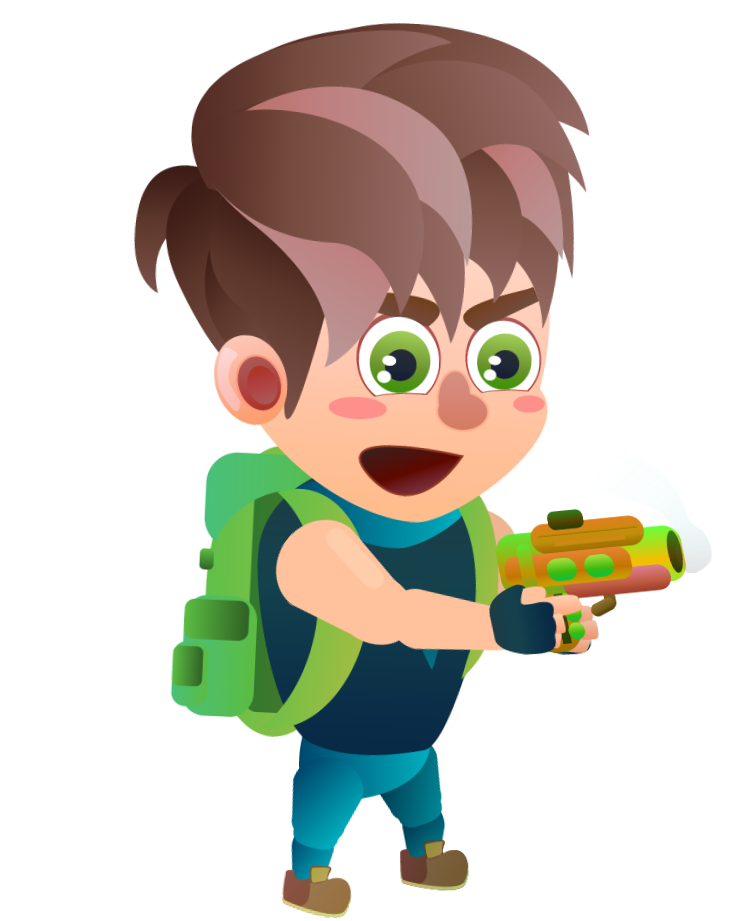
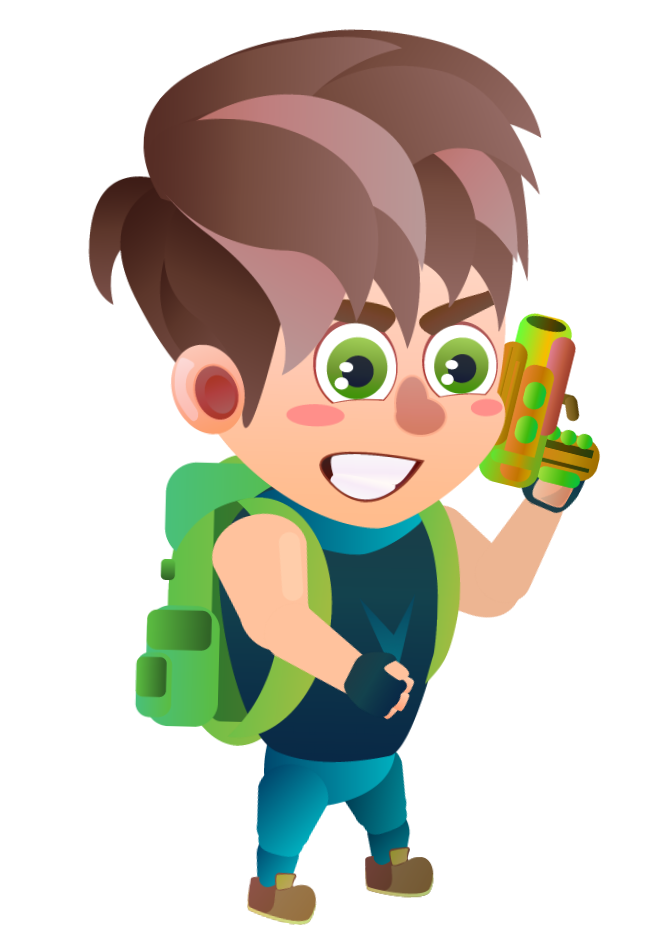
d

diff --git a/player.py b/player.py
@@ -11,7 +11,7 @@ class Player(pygame.sprite.Sprite):
         self.index = 0
         self.animation_speed = 0.15
 
-        self.image = self.animations['idle'][self.index]
+        self.image = self.animations['shoot'][self.index]
         self.rect = self.image.get_rect(topleft = pos)
 
         # Player Movement
@@ -32,7 +32,7 @@ class Player(pygame.sprite.Sprite):
 
     def imports(self):
         character_path = 'C:/Users/josey/Privé/Programmeren/Portfolio/Platformer/Animations/graphics/character/'
-        self.animations = {'idle': [], 'run':[], 'jump': [], 'fall': [], 'die': [], 'taking gun': [], 'shoot': []}
+        self.animations = {'idle': [], 'run':[], 'jump': [], 'fall': [], 'die': [], 'shoot': []}
 
         for animation in self.animations.keys():
             full_path = character_path + animation
@@ -44,11 +44,7 @@ class Player(pygame.sprite.Sprite):
         self.index += self.animation_speed
 
         if self.index >= len(animation):
-            if self.status == 'taking gun':
-                self.index = 0
-                self.status = 'shoot'
-            else:
-                self.index = 0
+            self.index = 0
 
         image = animation[int(self.index)]
         if self.rechts == True:
